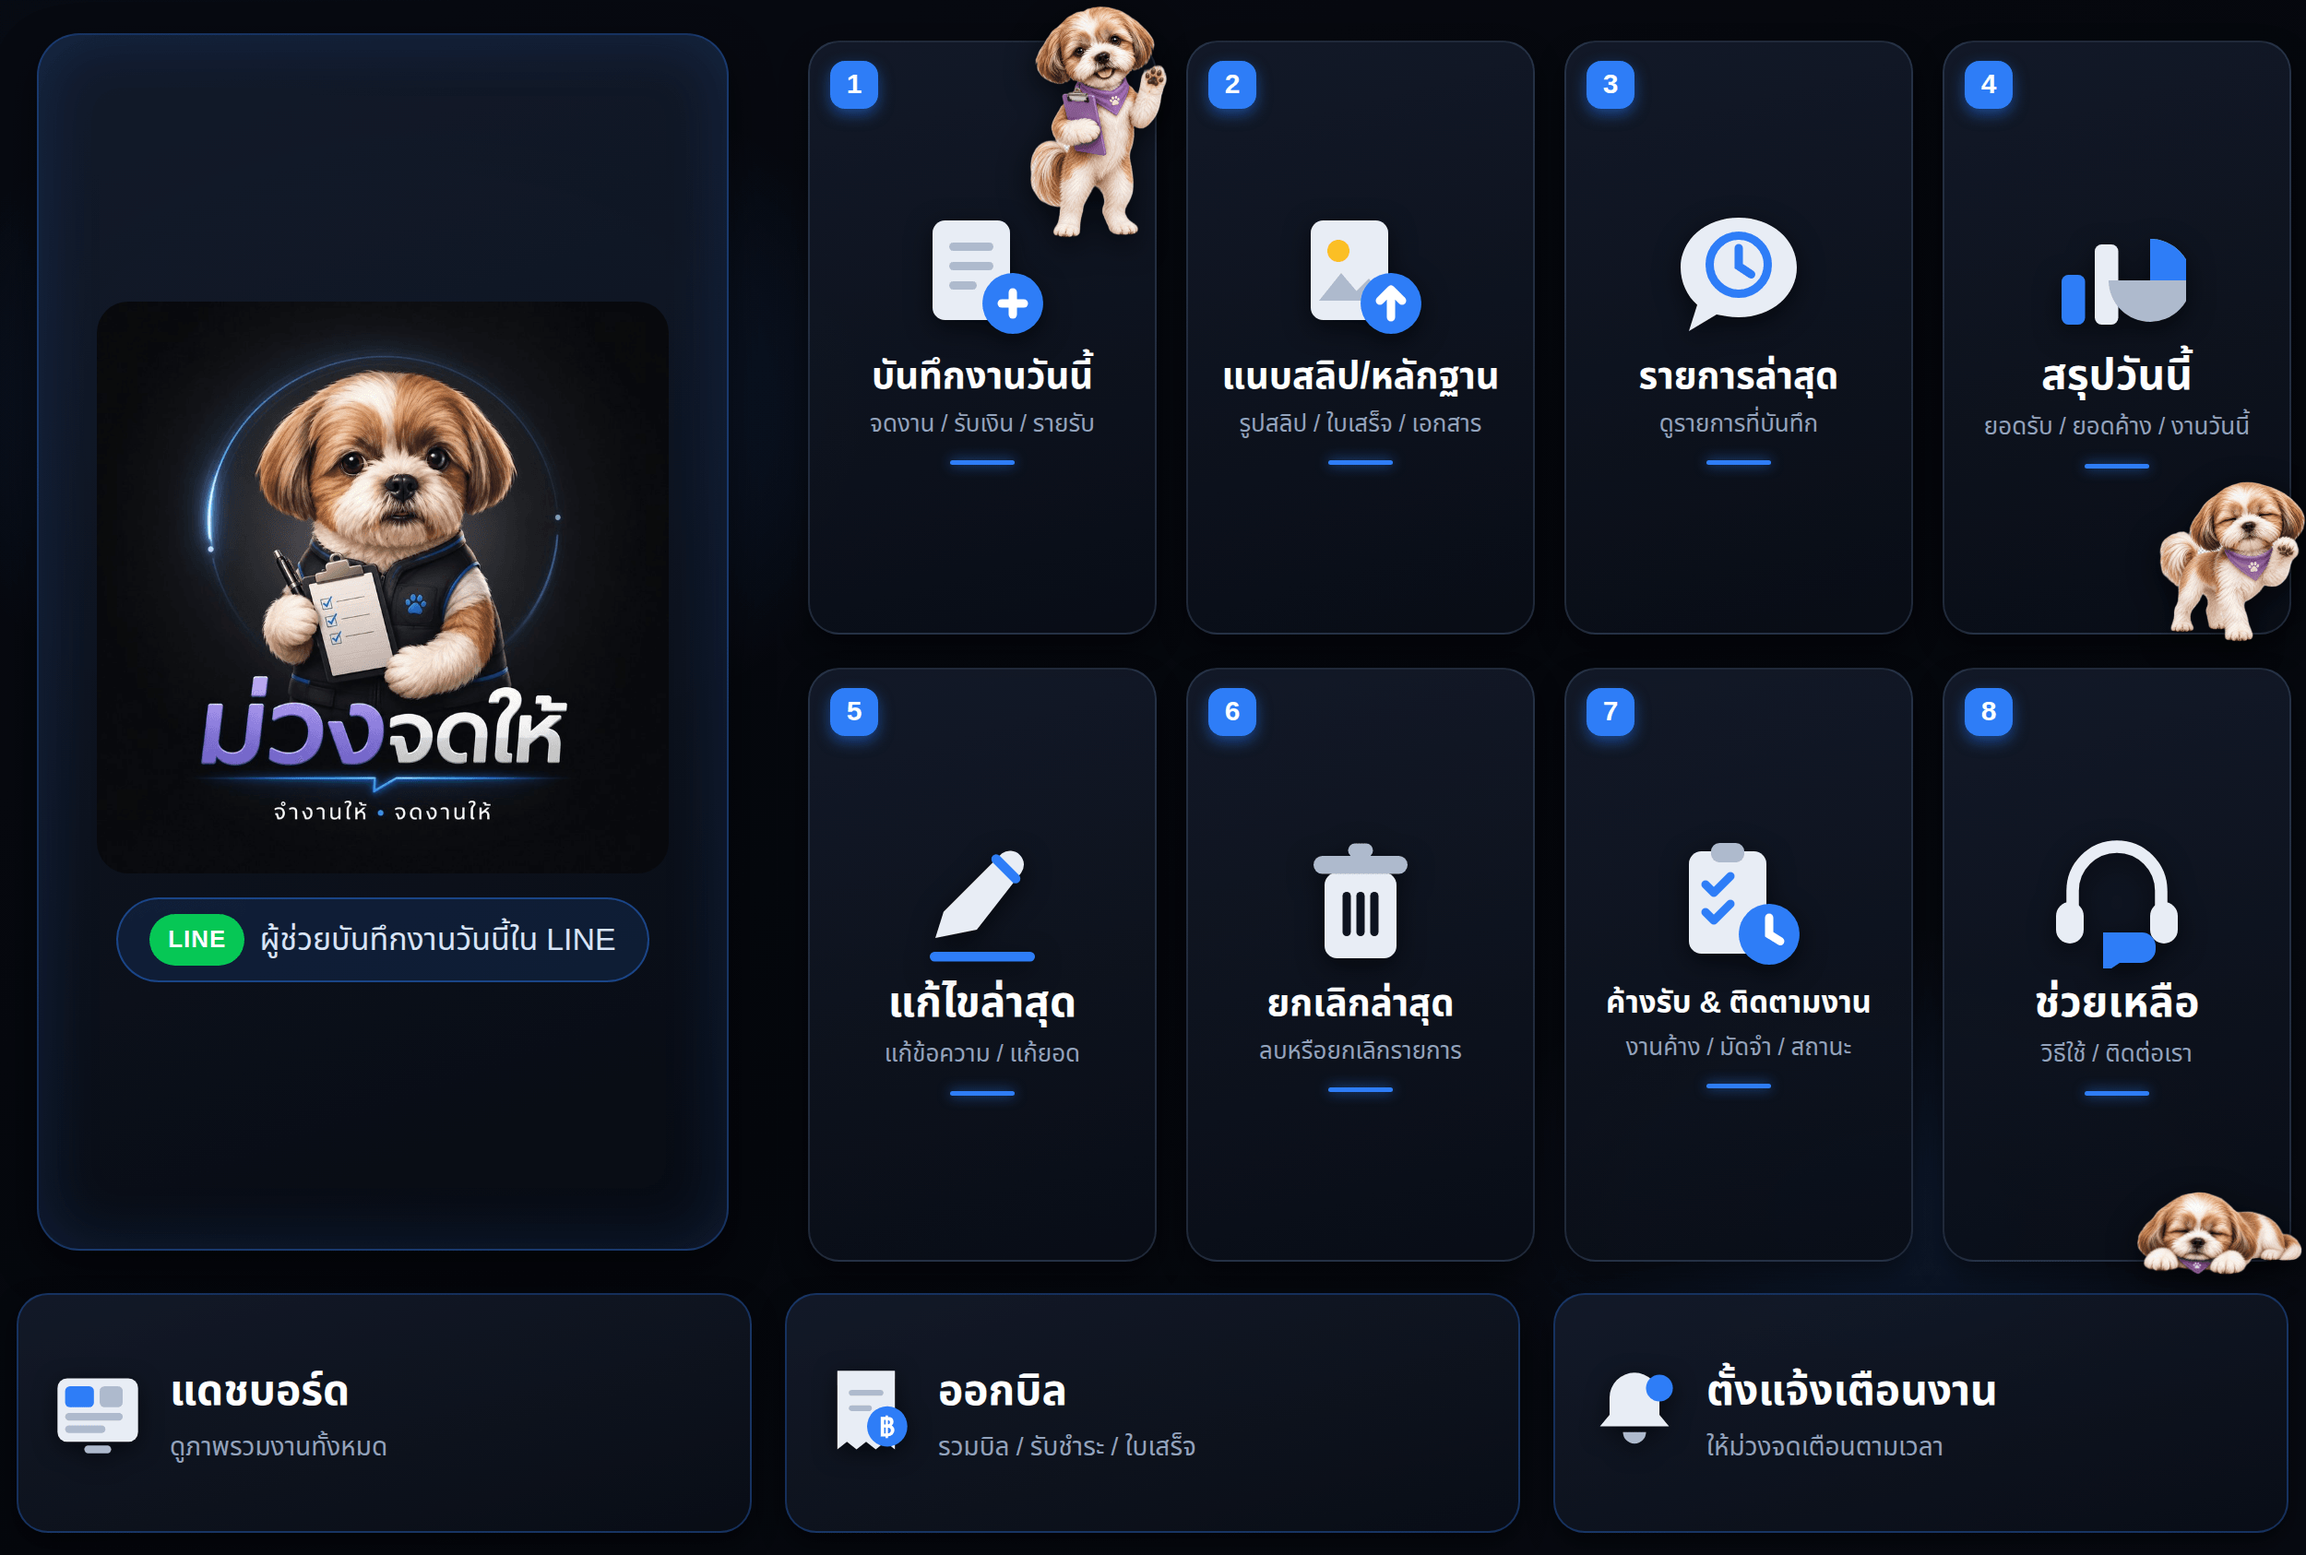
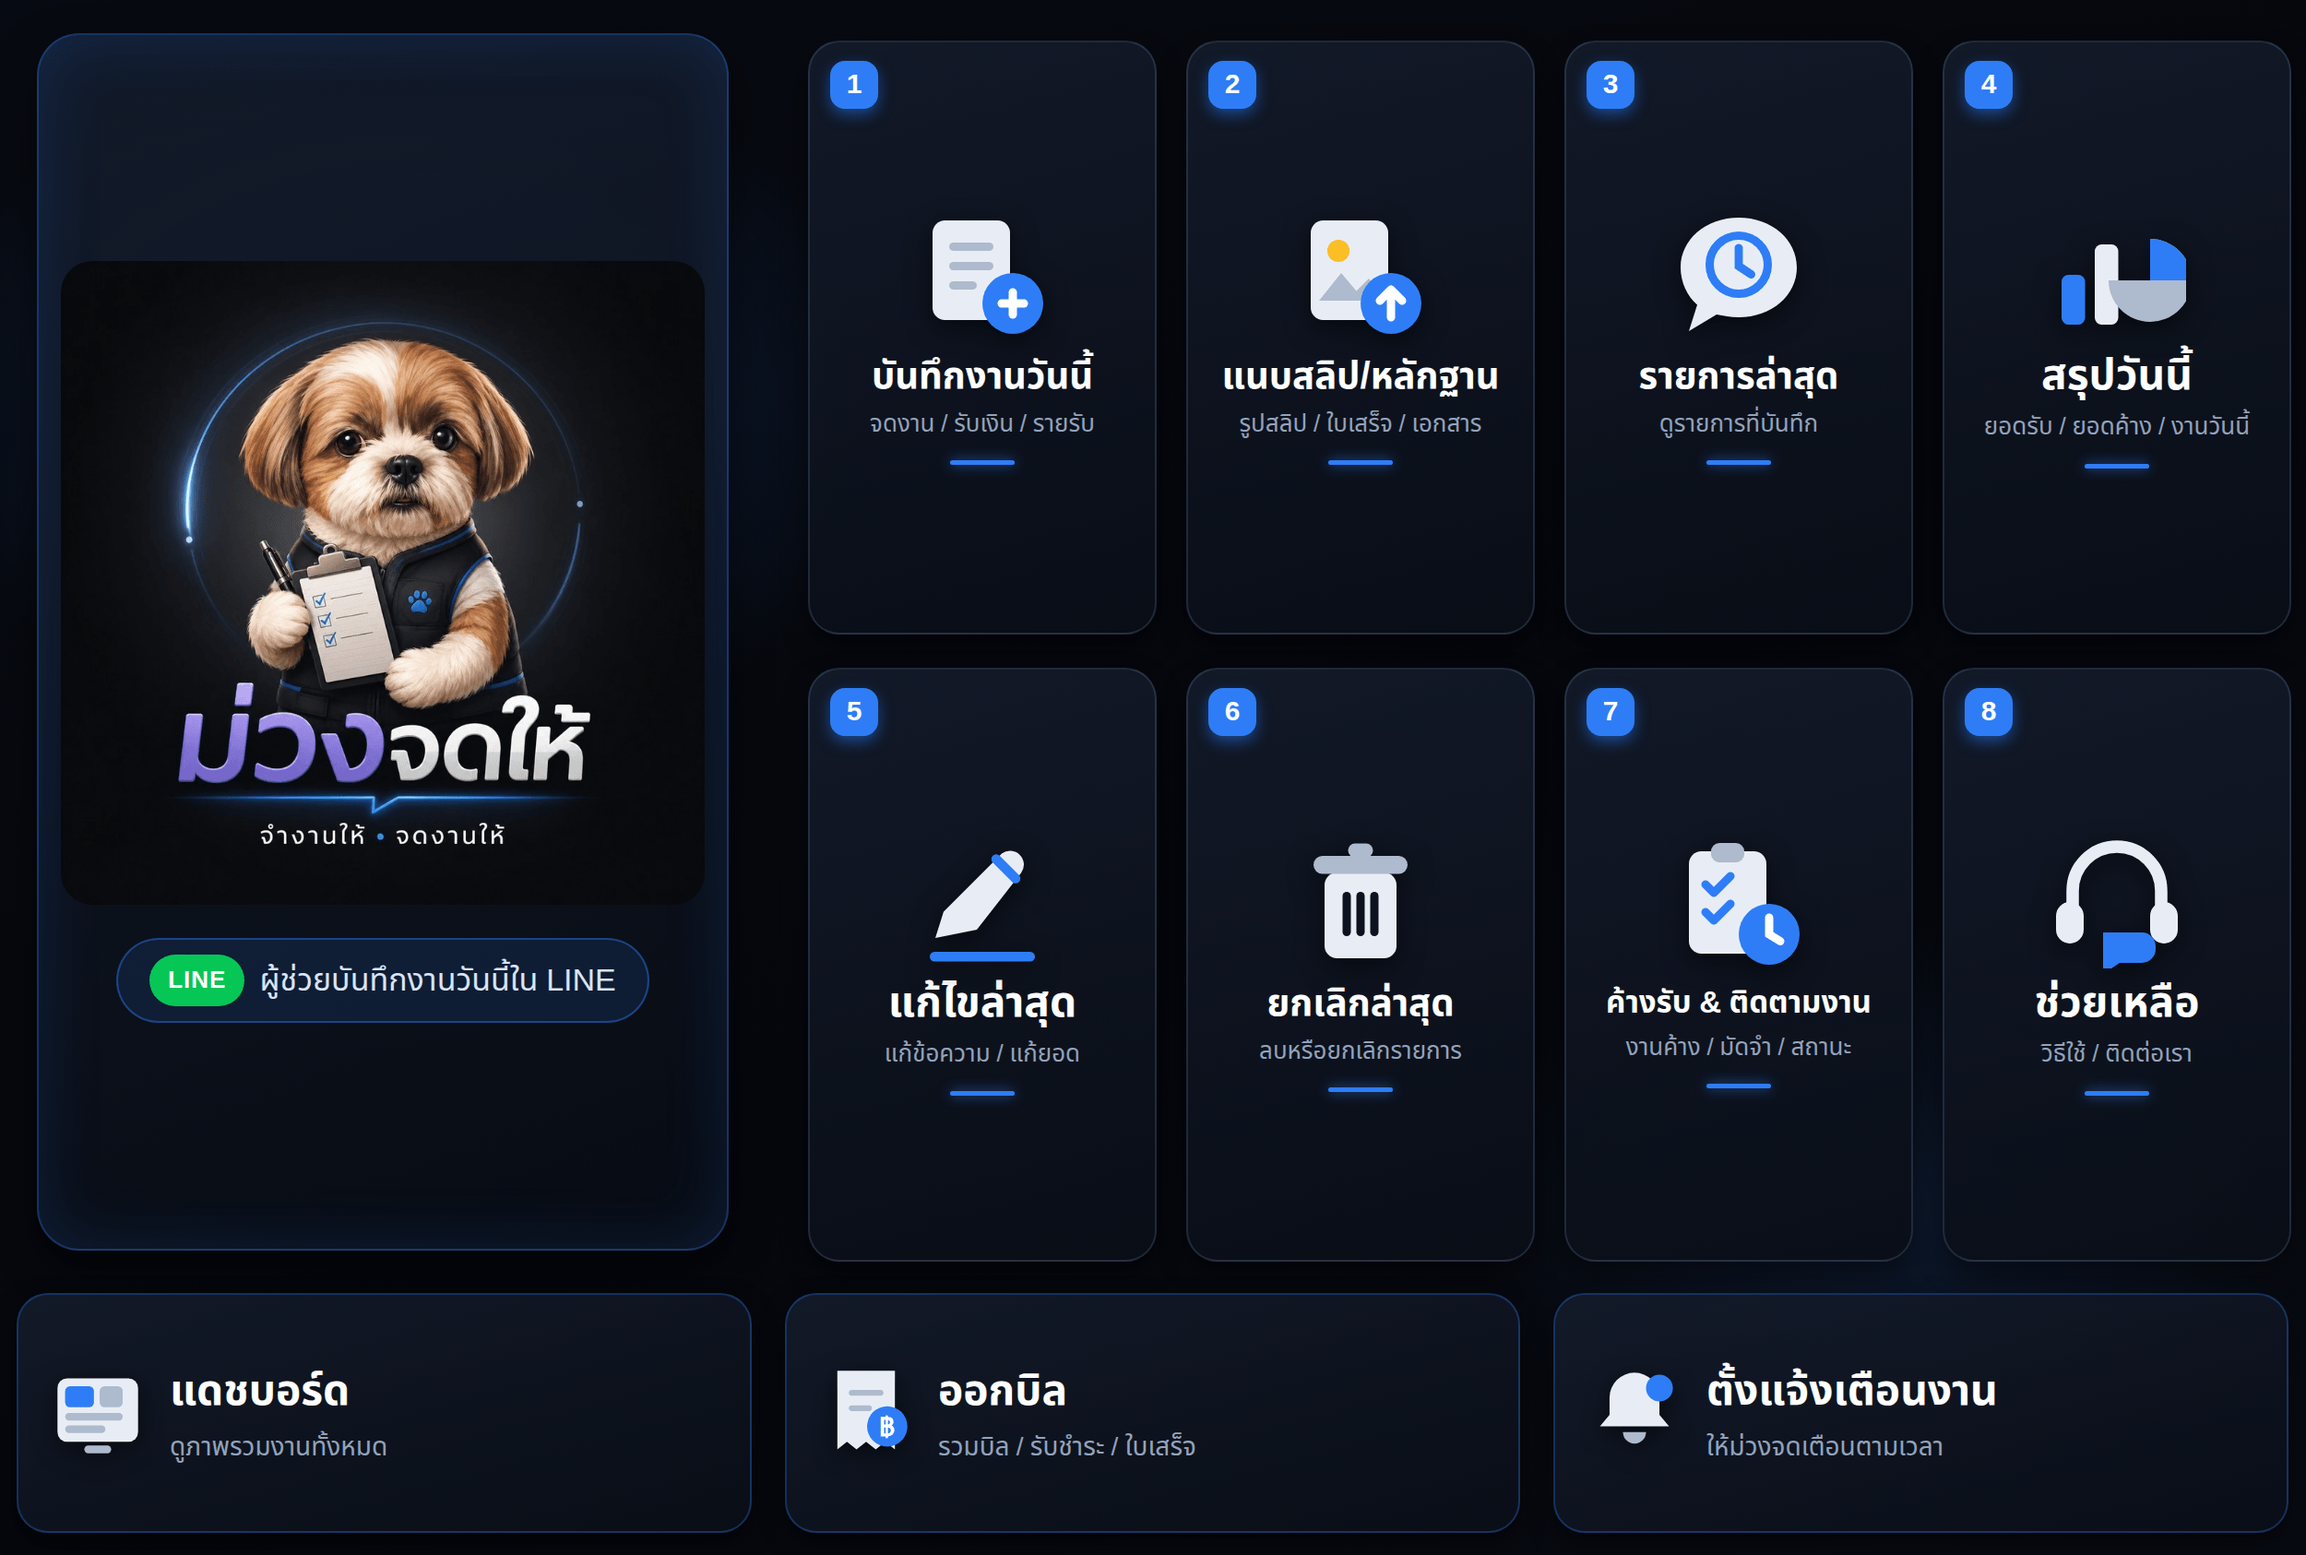
Put the mascot back on the brand panel, off the button cards (#21)
The reference design keeps the button cards plain: icon, title, subtitle.
The mascot cut-outs added there crowded them, so they go, and the brand
lockup on the left panel grows to fill the space it was sharing.

Only the bottom strip changes from that design, and it already has: three
buttons instead of three captions.

Claude-Session: https://claude.ai/code/session_01HjQRr7qyQeJARpB6Ss4x4u

diff --git a/assets/README.md b/assets/README.md
@@ -7,11 +7,9 @@
 
 | ส่วน | พิกัด | กดได้ไหม |
 |---|---|---|
-| การ์ดแบรนด์ (โลโก้ + ข้อความ) | x 0 – 860, y 0 – 1386 | ไม่ |
+| การ์ดแบรนด์ (น้องหมา + โลโก้) | x 0 – 860, y 0 – 1386 | ไม่ |
 | การ์ด 8 ปุ่ม (4 คอลัมน์ × 2 แถว ช่องละ 410 × 680) | x 860 – 2500, y 26 – 1386 | ✅ |
 | แถบล่าง 3 การ์ด (ช่องละ ~833 × 300) | x 0 – 2500, y 1386 – 1686 | ✅ |
-
-รูปน้องหมาอยู่บนการ์ดปุ่มที่ 1, 4 และ 8 (ไม่ใช่บนการ์ดแบรนด์แล้ว)
 
 ## ปุ่มทั้ง 11 (เรียงซ้าย→ขวา บน→ล่าง)
 
